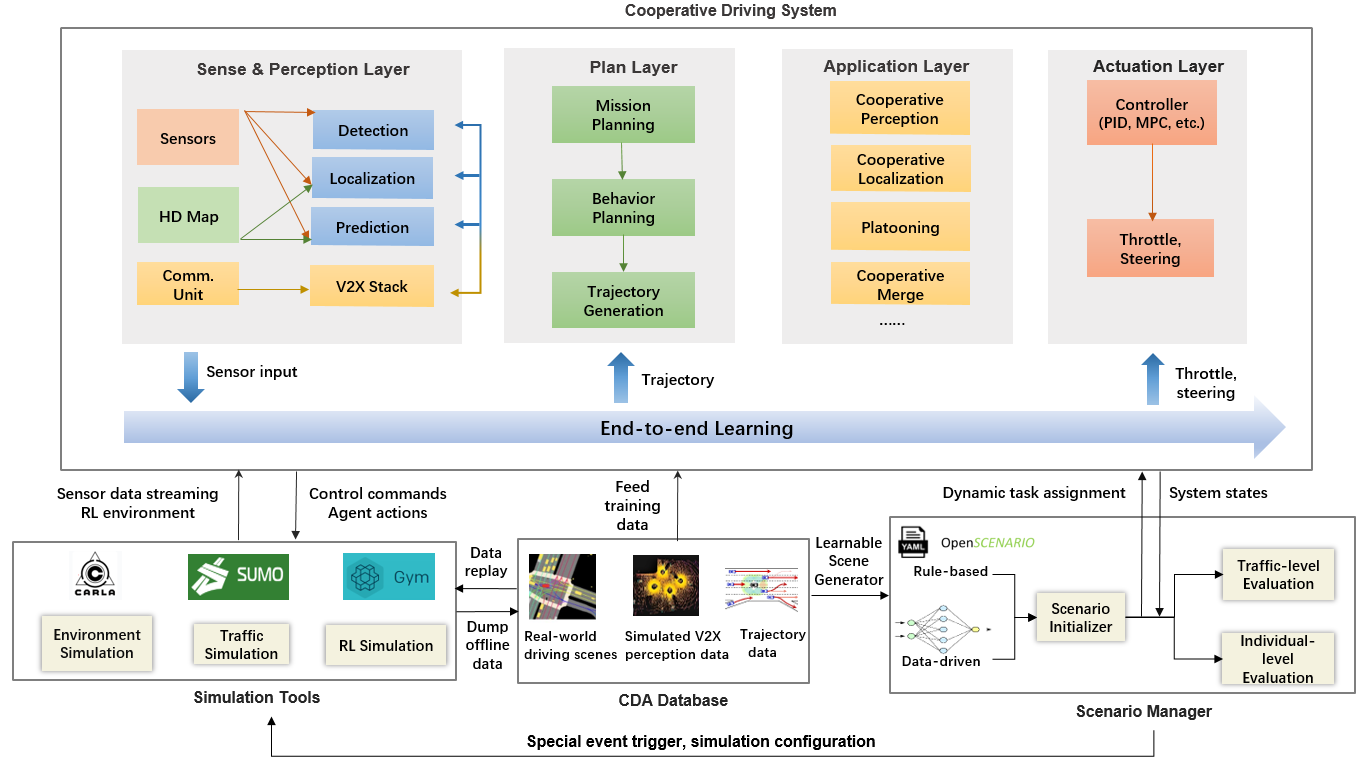
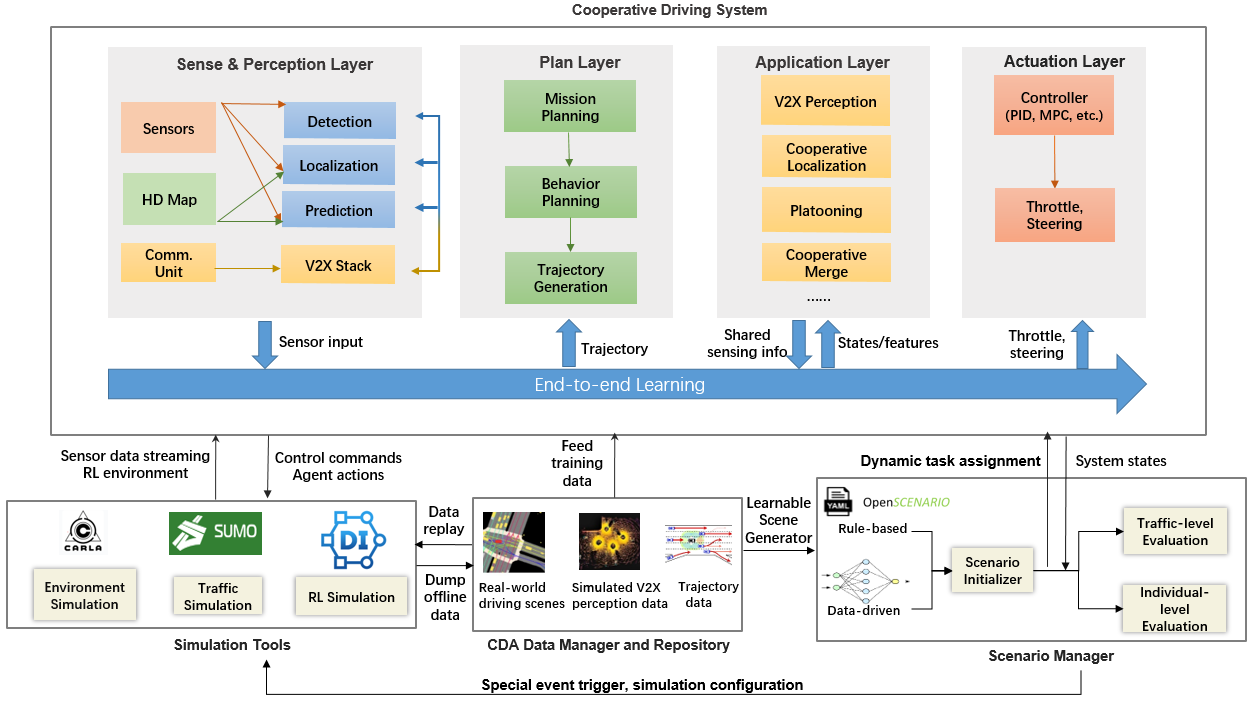
document update

diff --git a/README.md b/README.md
@@ -4,14 +4,15 @@
 [![Documentation Status](https://readthedocs.org/projects/opencda-documentation/badge/?version=latest)](https://opencda-documentation.readthedocs.io/en/latest/?badge=latest)
 
 
-OpenCDA is a <strong>SIMULATION</strong> tool integrated with a prototype cooperative driving automation (CDA; see [SAE J3216](https://www.sae.org/standards/content/j3216_202005/)) pipeline as
-well as regular automated driving components (e.g., perception, localization, planning, control). The tool integrates automated driving simulation (CARLA), traffic simulation (SUMO), and Co-simulation (CARLA + SUMO). 
+OpenCDA is an open co-simulation-based **research/engineering framework** integrated with prototype cooperative driving automation (CDA; see [SAE J3216](https://www.sae.org/standards/content/j3216_202005/)) pipelines as well as regular automated driving components (e.g., perception, localization, planning, control).  It not only enables CDA evaluation in a CARLA + SUMO co-simulation environment but also provides a rich library of source codes of CDA research pipelines. 
 
-OpenCDA is <strong>all in Python</strong>. In collaboration with [U.S.DOT CDA Research](https://its.dot.gov/cda/) and the [FHWA CARMA Program](https://highways.dot.gov/research/operations/CARMA), OpenCDA, as an open-source project,  is designed and built to support <strong>initial algorithmic testing</strong> for CDA Features. Through collaboration with CARMA Collaborative, this tool provides a unique capability to the CDA research community and will interface with the [CARMA XiL tools](https://github.com/usdot-fhwa-stol/carma-simulation) being developed by U.S.DOT to support more advanced simulation testing of CDA Features.
+In collaboration with  [U.S.DOT CDA Research](https://its.dot.gov/cda/) and the [FHWA CARMA Program](https://highways.dot.gov/research/operations/CARMA), OpenCDA, as an open-source project, is designed and built to support <strong>early-stage fundamental research </strong>  for CDA research and development. Through collaboration with CARMA Collaborative, this tool provides a unique capability to the CDA research community and will interface with the [CARMA XiL tools](https://github.com/usdot-fhwa-stol/carma-simulation) being developed by U.S.DOT to support more advanced simulation testing of CDA Features.
+
 
 The key features of OpenCDA are:
+* <strong> Research Pipeline </strong>: OpenCDA provides rich research pipelines (i.e., open-source codes for basic and advanced CDA modules, such as platooning, cooperative perception).
 * <strong>Integration</strong>: OpenCDA utilizes CARLA and SUMO separately, as well as integrates them together.
-* <strong> Full-stack Simulation</strong>: OpenCDA provides a simple prototype automated driving and cooperative driving platform, all in Python, that contains perception, localization, planning, control, and V2X communication modules.
+* <strong> Full-stack Simulation</strong>: OpenCDA provides a simple prototype automated driving and cooperative driving platform, <strong>all in Python</strong>, that contains perception, localization, planning, control, and V2X communication modules.
 * <strong>Modularity</strong>: OpenCDA is highly modularized. 
 * <strong>Benchmark</strong>: OpenCDA offers benchmark testing scenarios, benchmark baseline maps, state-of-the-art benchmark algorithms, and benchmark evaluation metrics.
 * <strong>Connectivity and Cooperation</strong>: OpenCDA supports various levels and categories of cooperation between CAVs in simulation. This differentiates OpenCDA from other single vehicle simulation tools.
@@ -23,7 +24,7 @@ Users could refer to [OpenCDA documentation](https://opencda-documentation.readt
 ## Major Components
 ![teaser](docs/md_files/images/OpenCDA_new_diagrams.png)
 
-OpenCDA  consists of three major component: <strong>Cooperative Driving System</strong>,  <strong>Co-Simulation Tools</strong>,
+OpenCDA  consists of four major component: <strong>Cooperative Driving System</strong>,  <strong>Co-Simulation Tools</strong>, <strong>Data Manager and Repository</strong>,
 and  <strong>Scenario Manager</strong>.
 
 Check the [OpenCDA Introduction](https://opencda-documentation.readthedocs.io/en/latest/md_files/introduction.html) for more details.
@@ -60,9 +61,10 @@ We welcome your contributions.
 
 
 ## What's New
+### Feb 2022
+* Our paper [*OPV2V: An Open Benchmark Dataset and Fusion Pipeline for Perception with Vehicle-to-Vehicle Communication*](https://arxiv.org/abs/2109.07644)
+  has been accepted by ICRA 2022! It utilizes  the offline Cooperative Perception(data dumping) function in OpenCDA. Check the [github page](https://github.com/DerrickXuNu/OpenCOOD) of OPV2V if interested.
 ### Oct 2021
-* Offline Cooperative Perception(data dumping) is supported. The paper [*OPV2V: An Open Benchmark Dataset and Fusion Pipeline for Perception with Vehicle-to-Vehicle Communication*](https://arxiv.org/abs/2109.07644)
- comes out from this feature.
  * CARLA 0.9.12 now supported; Different weather conditions are supported.
  * Better traffic management supported: users now can set a customized range to background cars.
 

diff --git a/docs/md_files/introduction.md b/docs/md_files/introduction.md
@@ -8,12 +8,12 @@ OpenCDA is created to fill such gaps.
 <div class="build-buttons">
 <p>
 <a href="https://github.com/ucla-mobility/OpenCDA" target="_blank" class="btn btn-neutral" title="Go to the latest OpenCDA page">
-<span class="icon icon-github"></span> OpenCDA 0.1.0</a>
+<span class="icon icon-github"></span> OpenCDA 0.1.1</a>
 </p>
 </div>
 
 ### Major Components
-![](images/OpenCDA_diagrams.png )
+![](images/OpenCDA_new_diagrams.png )
  1. <em>Cooperative Driving System</em>: <br /> OpenCDA  provides  a  <strong>full-stack software </strong>  that  contains  the  common  self-driving  modules including
     <strong>sensing,   planning and actuation  layers </strong>,  and  it  is  developed  purely  in  Python for fast prototyping.
     Built  upon these basic modules, OpenCDA supports a range of  <strong>common cooperative  driving  applications</strong>. <br />
@@ -26,6 +26,8 @@ OpenCDA is created to fill such gaps.
  Through such lightweight configuration, researchers can conveniently test and evaluate their algorithms under different scenarios. In the next verision v0.2, 
  OpenScenario will be supported to trigger special events.
 
+4. <em>CDA Data Manager and Repository</em>: OpenCDA provides a series of practical functions to collect offline CDA data (e.g. V2X perception data, multi-agent trajectory prediction data) and log replay them in the simulator. The recent ICRA work [OPV2V](https://arxiv.org/abs/2109.07644)
+comes out from this component. 
 ### Key Features
 The key features of OpenCDA are:
 * <strong>Integration</strong>: OpenCDA utilizes CARLA and SUMO separately, as well as integrates them together for realistic scene rendering, vehicle modeling, and traffic simulation.

diff --git a/docs/md_files/release_history.md b/docs/md_files/release_history.md
@@ -16,7 +16,7 @@ Besides the above dumped data, users can also generate the future trajectory for
 vehicle for trajectory prediction purpose. Run `python root_of_opencda/scripts/generate_prediction_yaml.py`
 to generate the prediction offline.
 
-This new functionality has been proved helpful. The newest paper <strong>OPV2V: An Open Benchmark Dataset and Fusion Pipeline for Perception with Vehicle-to-Vehicle Communication</strong>
+This new functionality has been proved helpful. The newest ICRA 2022 paper <strong>OPV2V: An Open Benchmark Dataset and Fusion Pipeline for Perception with Vehicle-to-Vehicle Communication</strong>
 has utilized this new feature to collect cooperative data. Check https://mobility-lab.seas.ucla.edu/opv2v/ for more information
 
 ![](images/opv2v.png )